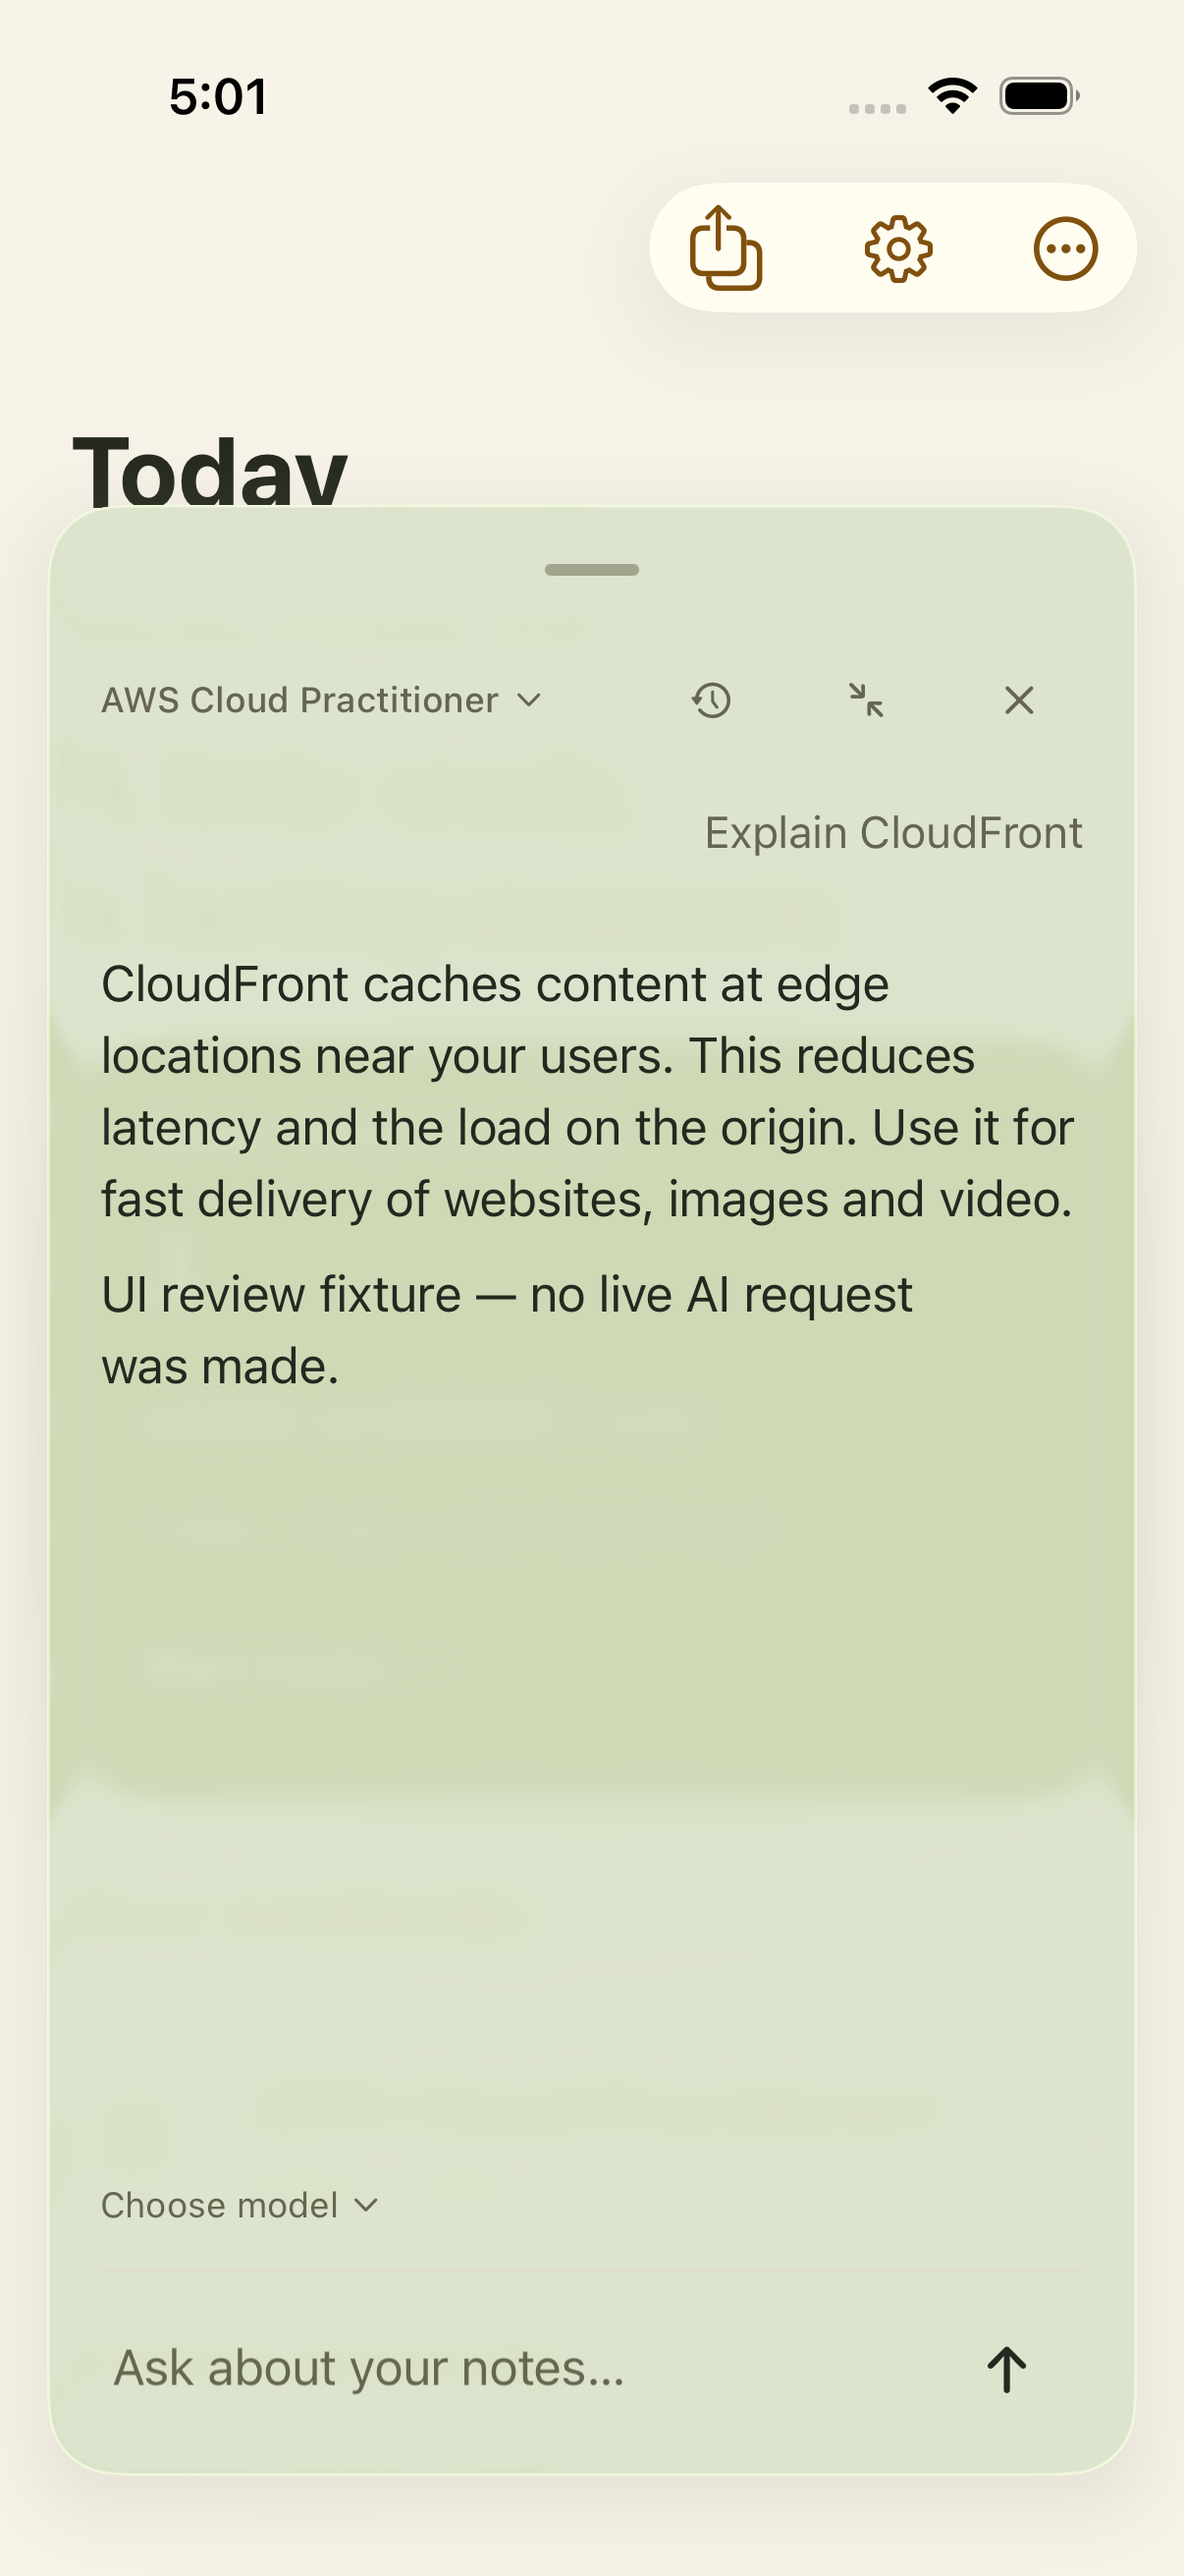
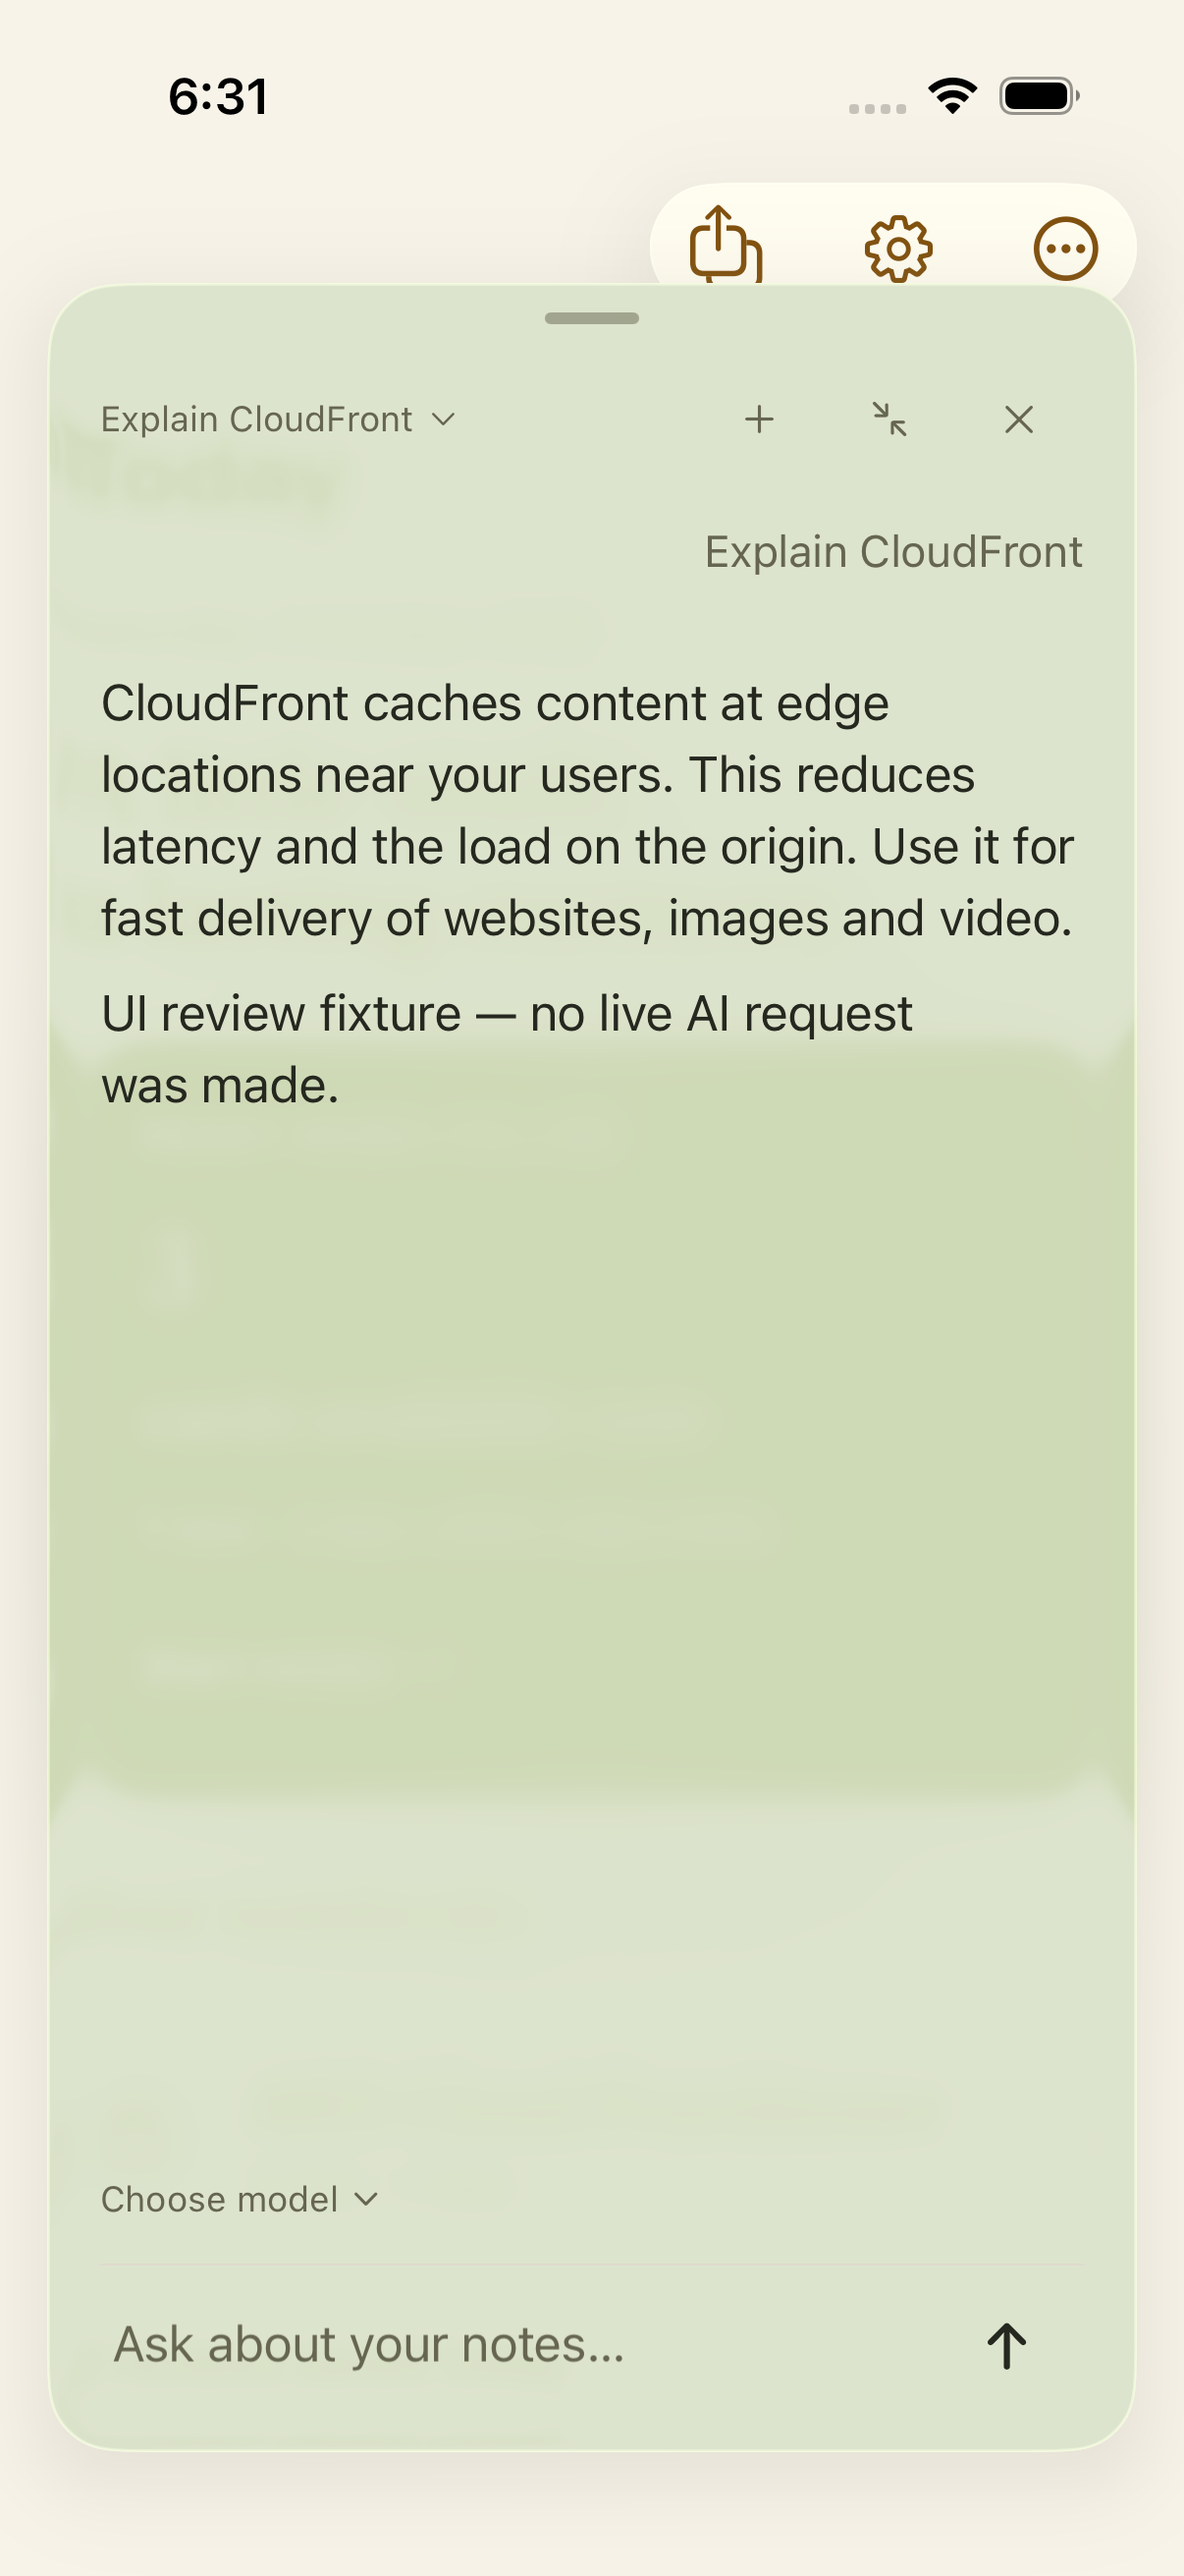
Preserve keyboard focus while resizing assistant

diff --git a/Sources/Features/ContextualAssistant.swift b/Sources/Features/ContextualAssistant.swift
@@ -319,7 +319,7 @@ struct ContextualAssistant: View {
                 Spacer(minLength:8)
                 Button(action:newChat) { Image(systemName:"plus").frame(width:44,height:44).contentShape(Rectangle()) }
                     .accessibilityLabel("New chat").disabled(busy)
-                Button { composerFocused = false; withAnimation(motion) { stage = expanded ? .medium : .expanded } } label: {
+                Button { withAnimation(motion) { stage = expanded ? .medium : .expanded } } label: {
                     Image(systemName:expanded ? "arrow.down.right.and.arrow.up.left" : "arrow.up.left.and.arrow.down.right").frame(width:44,height:44).contentShape(Rectangle())
                 }.accessibilityLabel(expanded ? "Collapse assistant" : "Expand assistant")
                 Button(action:close) { Image(systemName:"xmark").frame(width:44,height:44).contentShape(Rectangle()) }
@@ -461,12 +461,12 @@ struct ContextualAssistant: View {
 
     private func changeStage(for translation: CGFloat) {
         guard abs(translation) > 10 else { return }
-        composerFocused = false
         withAnimation(motion) {
             if translation < 0 { stage = stage == .compact ? .medium : .expanded }
             else if showingHistory { showingHistory = false; stage = .compact }
             else { stage = expanded ? .medium : stage == .medium ? .compact : .closed }
         }
+        if stage == .closed { composerFocused = false }
     }
     private func newChat() {
         selectedHistoryID = UUID().uuidString

diff --git a/Tests/EngramUITests/MinimalistStudyUITests.swift b/Tests/EngramUITests/MinimalistStudyUITests.swift
@@ -378,13 +378,21 @@ final class MinimalistStudyUITests: XCTestCase {
         XCTAssertTrue(handle.exists)
         handle.swipeUp()
         XCTAssertTrue(app.buttons["Collapse assistant"].waitForExistence(timeout:5))
+        XCTAssertTrue(keyboard.exists)
+        XCTAssertLessThan(keyboard.frame.minY,app.frame.maxY)
+        app.buttons["Collapse assistant"].tap()
+        XCTAssertTrue(keyboard.exists)
+        app.buttons["Expand assistant"].tap()
+        XCTAssertTrue(keyboard.exists)
         capture("Assistant-Expanded-Swipe",app)
         handle.swipeDown()
         XCTAssertTrue(app.buttons["Expand assistant"].waitForExistence(timeout:5))
         capture("Assistant-Medium-Swipe",app)
+        XCTAssertTrue(keyboard.exists)
         handle.swipeDown()
         XCTAssertFalse(app.buttons["Chat history"].exists)
         capture("Assistant-Compact-Swipe",app)
+        XCTAssertTrue(keyboard.exists)
         handle.swipeDown()
         XCTAssertTrue(entry.waitForExistence(timeout:5))
     }

diff --git a/docs/AI-CHAT-INTERACTION-REVISION.md b/docs/AI-CHAT-INTERACTION-REVISION.md
@@ -27,3 +27,5 @@ The first simulator checks caught missing explicit header hit regions and an exc
 Final checks: all 17 focused logic tests passed. Seven distinct simulator scenarios passed across the focused runs: keyboard/button expansion and equations (`/tmp/engram-chat-stages-final.xcresult`), drag/keyboard return (`/tmp/engram-chat-drag-confirmed.xcresult`), both Mono palettes (`/tmp/engram-chat-title-final.xcresult`), and the final title-only history/new/delete flows (`/tmp/engram-chat-history-confirmed.xcresult`). Earlier bundles retain the documented failures; the final history recheck confirms no saved transcript appears before title selection. These are fixture-based checks rather than live model requests.
 
 Device delivery: the SSH build initially failed with `errSecInternalComponent` at code signing. Running the existing build script in the Mac Terminal session succeeded. The updated app was installed and launched on the paired iPhone at 18:44 on 3 October 2026; `/tmp/engram-dev-phone.status` reports `LAUNCHED` and the device log confirms `dev.engram.study`.
+
+Keyboard focus follow-up: expansion/collapse buttons and drag gestures no longer clear composer focus. Only the final drag to closed dismisses the keyboard. The simulator regression passed keyboard return, both resize buttons, upward expansion and downward medium/compact stages with the keyboard still visible (`/tmp/engram-chat-focus.xcresult`). Current/previous stage screenshots were refreshed. Bubble layout and more translucent keyboard styling remain discussion proposals.
